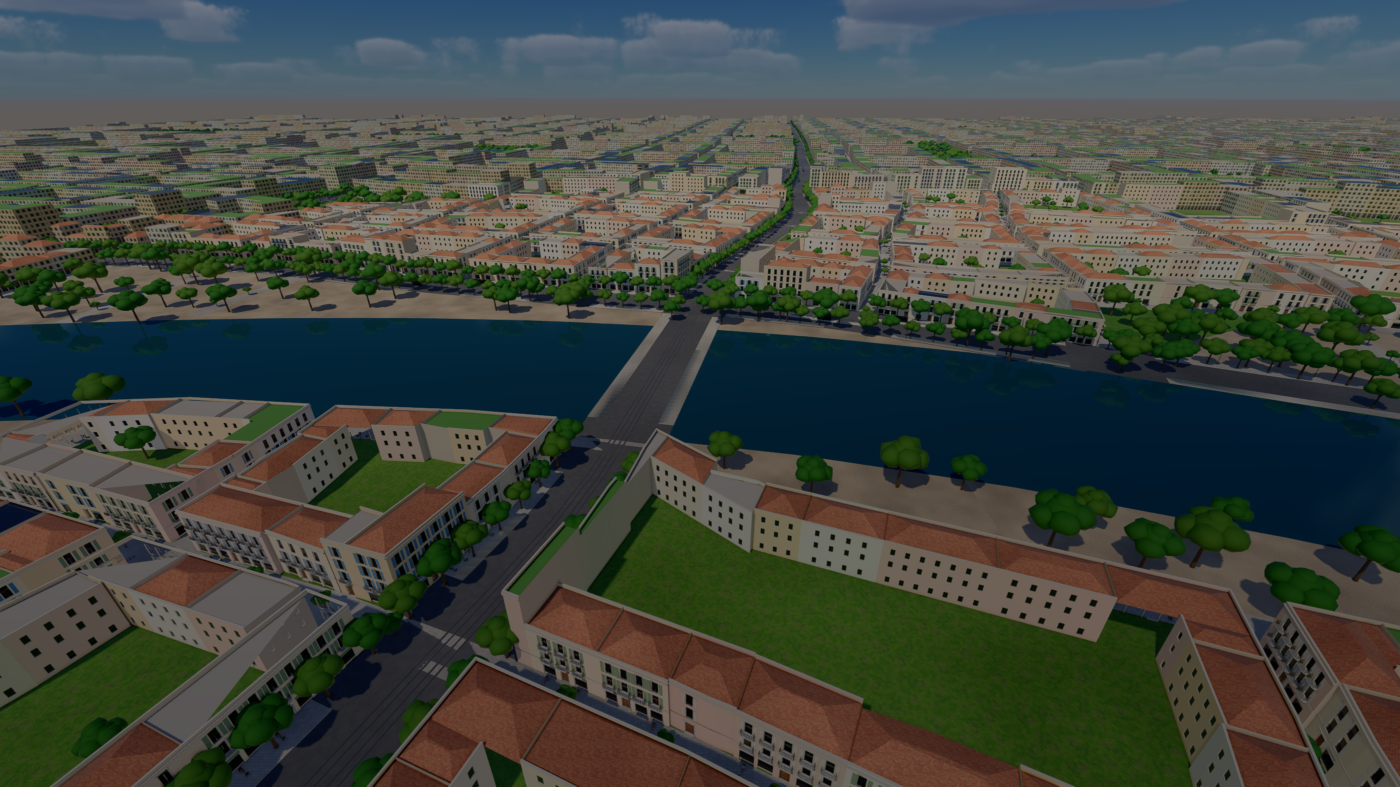
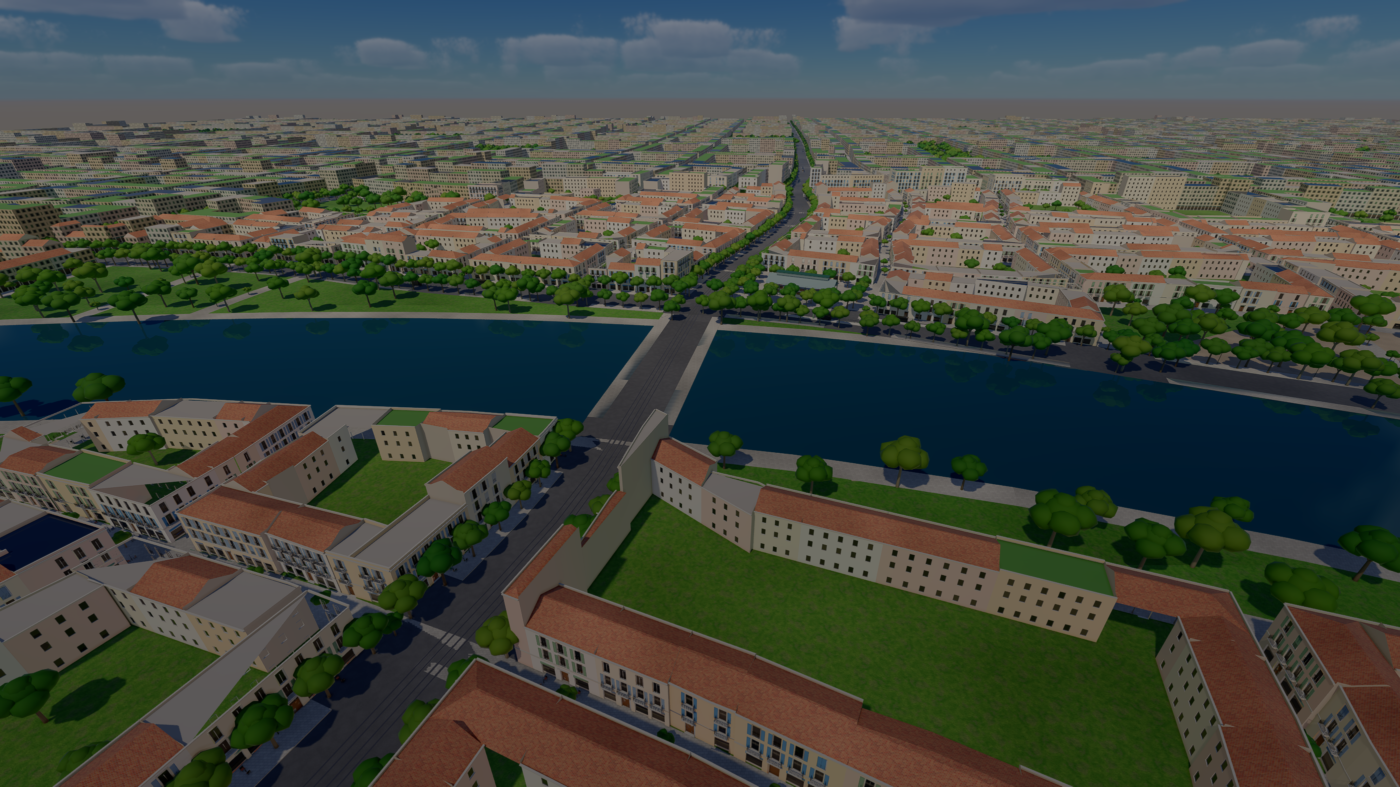
City plans: rows of tiled roofs share a ridge, gables on the party walls (#247)
A tiled roof now slopes from its street and court walls only. A wall onto a
neighbour (facades::edge_kinds, split out of faces), across the main front and
at most 18 m long, carries a gable, so the houses of a row share one ridge along
the street and a taller house shows its gable above its neighbour's roof. A
free-standing building is still hipped. A roof stops rising after an 8 m run
(4.4 m), its top then a terrace. city-map --faces-at draws the faces anywhere.

Gate passed (540 tests).

diff --git a/demos/city-plan/src/lib.rs b/demos/city-plan/src/lib.rs
@@ -315,16 +315,18 @@ impl PlanScenario {
             }
         }
         let trams: Vec<TramRun> = plan.tram_lines.iter().filter_map(TramRun::new).collect();
+        // What each wall looks onto: the kit's faces and where the roofs end in gables.
+        let edges = facades::edge_kinds(plan, masses);
         let mut near = Vec::new();
         for (i, m) in masses.iter().enumerate() {
             match detail {
                 Some(d) if geom::centroid(&m.footprint).distance(d.centre) < d.radius => {
                     near.push(i);
                 }
-                _ => mass(&mut tiles, m),
+                _ => mass(&mut tiles, m, &edges[i]),
             }
         }
-        let kit = detail.map(|d| kit(&mut tiles, plan, masses, &near, d));
+        let kit = detail.map(|d| kit(&mut tiles, masses, &edges, &near, d));
         let triangles = tiles
             .tiles
             .iter()
@@ -846,11 +848,17 @@ fn tint_of(lot: u32) -> u8 {
 
 /// The masses `near` built from `d`'s grammar and kit: each face derived, the walls, bands and
 /// cornices merged into the tiles, the openings instanced; and their roofs.
-fn kit(tiles: &mut Tiles, plan: &CityPlan, masses: &[Mass], near: &[usize], d: &Detail) -> Kit {
+fn kit(
+    tiles: &mut Tiles,
+    masses: &[Mass],
+    edges: &[Vec<Option<FaceKind>>],
+    near: &[usize],
+    d: &Detail,
+) -> Kit {
     let start = std::time::Instant::now();
     let size = tiles.size;
     let wanted: std::collections::HashSet<u32> = near.iter().map(|&i| i as u32).collect();
-    let faces: Vec<facades::Face> = facades::faces(plan, masses)
+    let faces: Vec<facades::Face> = facades::faces_of(masses, edges)
         .into_iter()
         .filter(|f| wanted.contains(&f.mass))
         .collect();
@@ -965,7 +973,7 @@ fn kit(tiles: &mut Tiles, plan: &CityPlan, masses: &[Mass], near: &[usize], d: &
         }
     }
     for &i in near {
-        roof(tiles, &masses[i]);
+        roof(tiles, &masses[i], &edges[i], KIT_PARTY);
     }
     Kit {
         meshes,
@@ -1108,8 +1116,8 @@ fn wall_band(
 }
 
 /// A mass: its walls (a shop band on the ground floor where the street is lively, window bays
-/// above, one of four tints by its lot) and its roof.
-fn mass(tiles: &mut Tiles, m: &Mass) {
+/// above, one of four tints by its lot) and its roof, `edges` saying what each wall looks onto.
+fn mass(tiles: &mut Tiles, m: &Mass, edges: &[Option<FaceKind>]) {
     let size = tiles.size;
     let tile = tiles.at(m.footprint[0]);
     let centre = tile.centre;
@@ -1152,11 +1160,11 @@ fn mass(tiles: &mut Tiles, m: &Mass) {
             );
         }
     }
-    roof(tiles, m);
+    roof(tiles, m, edges, KIT_PLASTER + tint);
 }
 
-/// A mass's roof: green, solar, a terrace, or pitched and tiled.
-fn roof(tiles: &mut Tiles, m: &Mass) {
+/// A mass's roof: green, solar, a terrace, or pitched and tiled, its gables in `gable`.
+fn roof(tiles: &mut Tiles, m: &Mass, edges: &[Option<FaceKind>], gable: u8) {
     let size = tiles.size;
     let tile = tiles.at(m.footprint[0]);
     let centre = tile.centre;
@@ -1165,7 +1173,7 @@ fn roof(tiles: &mut Tiles, m: &Mass) {
         Roof::Solar => ROOF_SOLAR,
         Roof::Terrace => ROOF_TERRACE,
         Roof::Tiled => {
-            if hipped(&mut tile.masses, m, size, centre) {
+            if pitched(&mut tile.masses, m, edges, gable, size, centre) {
                 return;
             }
             ROOF_TERRACE
@@ -1177,47 +1185,136 @@ fn roof(tiles: &mut Tiles, m: &Mass) {
     }
 }
 
-/// A hipped roof over a mass: every edge slopes up at about 29° to the ridge, the footprint moved
-/// in as far as it goes (the straight skeleton's roof for a convex footprint, nearly). False
-/// where the footprint will not take one; it then gets a flat roof.
-fn hipped(mesh: &mut TriMesh, m: &Mass, size: f64, centre: Vec3) -> bool {
+/// The longest wall a gable stands on, metres: about a building's depth. Longer walls slope.
+const GABLE_MAX: f64 = 18.0;
+/// The longest run of a pitched roof from its eaves, metres (a rise of 4.4 m); a roof that
+/// would rise further stops in a terrace.
+const RUN_MAX: f64 = 8.0;
+
+/// Which edges of a footprint slope (1) and which end in a gable (0): a wall onto a neighbour
+/// or within the building, across the main front (its longest street wall, else its longest
+/// court wall) and at most [`GABLE_MAX`] long, carries a gable, so the houses of a row share
+/// one ridge along the street. The rest slope; with no gable the roof is hipped. `None` with
+/// no front.
+fn pitches(fp: &[DVec2], edges: &[Option<FaceKind>]) -> Option<Vec<f64>> {
+    let n = fp.len();
+    let edge = |i: usize| fp[(i + 1) % n] - fp[i];
+    let open = |i: usize| matches!(edges[i], Some(FaceKind::Street | FaceKind::Court));
+    let longest = |kind: FaceKind| {
+        (0..n)
+            .filter(|&i| edges[i] == Some(kind))
+            .max_by(|&a, &b| edge(a).length().total_cmp(&edge(b).length()))
+    };
+    let front = longest(FaceKind::Street).or_else(|| longest(FaceKind::Court))?;
+    let along = edge(front).normalize_or_zero();
+    Some(
+        (0..n)
+            .map(|i| {
+                let across = edge(i).normalize_or_zero().dot(along).abs() < 0.5;
+                let length = edge(i).length();
+                if !open(i) && (0.5..=GABLE_MAX).contains(&length) && across {
+                    0.0
+                } else {
+                    1.0
+                }
+            })
+            .collect(),
+    )
+}
+
+/// The outline `fp` with each edge `i` moved in by `w[i] * d`: a pitched roof's top at the run
+/// `d`. `None` once an edge turns over or two cross (past the ridge).
+fn ridge(fp: &[DVec2], w: &[f64], d: f64) -> Option<Vec<DVec2>> {
+    let n = fp.len();
+    let line = |i: usize| {
+        let t = (fp[(i + 1) % n] - fp[i]).normalize_or_zero();
+        (fp[i] + DVec2::new(-t.y, t.x) * (w[i] * d), t)
+    };
+    let mut out = Vec::with_capacity(n);
+    for i in 0..n {
+        let prev = (i + n - 1) % n;
+        let ((p, t), (q, u)) = (line(prev), line(i));
+        let denom = geom::cross(t, u);
+        if denom.abs() < 1e-9 {
+            // Edges in line meet only where they move alike.
+            if w[i] != w[prev] {
+                return None;
+            }
+            out.push(q);
+            continue;
+        }
+        out.push(p + t * (geom::cross(q - p, u) / denom));
+    }
+    let turned = (0..n).any(|i| (out[(i + 1) % n] - out[i]).dot(line(i).1) <= 1e-6);
+    let crossing = (0..n).any(|i| {
+        ((i + 2)..n).any(|j| {
+            (j + 1) % n != i
+                && geom::segment_intersection(out[i], out[(i + 1) % n], out[j], out[(j + 1) % n])
+                    .is_some()
+        })
+    });
+    (!turned && !crossing).then_some(out)
+}
+
+/// A pitched roof over a mass at about 29°: the sloping edges ([`pitches`]) moved in as far as
+/// they go to the ridge (the straight skeleton's roof for a convex footprint, nearly) or
+/// [`RUN_MAX`], the gable ends standing up from their walls in `gable`. False where the
+/// footprint will not take one; it then gets a flat roof.
+fn pitched(
+    mesh: &mut TriMesh,
+    m: &Mass,
+    edges: &[Option<FaceKind>],
+    gable: u8,
+    size: f64,
+    centre: Vec3,
+) -> bool {
     let fp = &m.footprint;
     let n = fp.len();
-    let fits = |d: f64| geom::inset(fp, d).filter(|p| p.len() == n);
+    let Some(w) = pitches(fp, edges) else {
+        return false;
+    };
+    let fits = |d: f64| ridge(fp, &w, d);
     if fits(0.5).is_none() {
         return false;
     }
-    let (mut lo, mut hi) = (0.5, 30.0);
-    for _ in 0..14 {
-        let mid = (lo + hi) * 0.5;
-        if fits(mid).is_some() {
-            lo = mid;
-        } else {
-            hi = mid;
+    // The run to the ridge, or the longest, the top then a terrace.
+    let (d, top) = if fits(RUN_MAX).is_some() {
+        (RUN_MAX, ROOF_TERRACE)
+    } else {
+        let (mut lo, mut hi) = (0.5, RUN_MAX);
+        for _ in 0..12 {
+            let mid = (lo + hi) * 0.5;
+            if fits(mid).is_some() {
+                lo = mid;
+            } else {
+                hi = mid;
+            }
         }
-    }
-    let d = lo * 0.97;
+        (lo * 0.97, ROOF_TILE)
+    };
     let Some(ridge) = fits(d) else {
         return false;
     };
     let rise = d * 0.55;
     let at = |p: DVec2, h: f64| world(size, p, h) - centre;
-    let face = |mesh: &mut TriMesh, p: [Vec3; 3]| {
-        let mut normal = (p[1] - p[0]).cross(p[2] - p[0]).normalize_or_zero();
-        if normal.y < 0.0 {
-            normal = -normal;
-        }
-        triangle_uv(mesh, p, [[0.0; 2]; 3], normal, ROOF_TILE);
-    };
     for i in 0..n {
         let j = (i + 1) % n;
         let (a, b) = (at(fp[i], m.height), at(fp[j], m.height));
         let (c, e) = (at(ridge[j], m.height + rise), at(ridge[i], m.height + rise));
-        face(mesh, [a, b, c]);
-        face(mesh, [a, c, e]);
+        let (normal, section) = if w[i] == 0.0 {
+            // A gable: the wall carried up, facing out.
+            let t = (fp[j] - fp[i]).normalize_or_zero();
+            (Vec3::new(t.y as f32, 0.0, -t.x as f32), gable)
+        } else {
+            let normal = (b - a).cross(c - a).normalize_or_zero();
+            (normal * normal.y.signum(), ROOF_TILE)
+        };
+        triangle_uv(mesh, [a, b, c], [[0.0; 2]; 3], normal, section);
+        triangle_uv(mesh, [a, c, e], [[0.0; 2]; 3], normal, section);
     }
     for t in geom::triangulate(&ridge) {
-        face(mesh, t.map(|i| at(ridge[i], m.height + rise)));
+        let p = t.map(|i| at(ridge[i], m.height + rise));
+        triangle_uv(mesh, p, [[0.0; 2]; 3], Vec3::Y, top);
     }
     true
 }

diff --git a/crates/forge-procgen/src/city/facades.rs b/crates/forge-procgen/src/city/facades.rs
@@ -64,6 +64,13 @@ impl Face {
 
 /// The faces of every mass, in mass order.
 pub fn faces(plan: &CityPlan, masses: &[Mass]) -> Vec<Face> {
+    faces_of(masses, &edge_kinds(plan, masses))
+}
+
+/// What each edge of each mass's footprint looks onto (edge `i` from vertex `i` to `i + 1`):
+/// `None` for a wall inside its building (onto another mass of its lot) or a sliver under half
+/// a metre.
+pub fn edge_kinds(plan: &CityPlan, masses: &[Mass]) -> Vec<Vec<Option<FaceKind>>> {
     let streets = street_grid(&plan.roads, plan.size);
     // Each lot's masses, to tell walls inside a building from walls between lots.
     let mut by_lot: std::collections::HashMap<u32, Vec<u32>> = std::collections::HashMap::new();
@@ -74,12 +81,11 @@ pub fn faces(plan: &CityPlan, masses: &[Mass]) -> Vec<Face> {
     for (i, lot) in plan.lots.iter().enumerate() {
         lots_of[lot.block as usize].push(i as u32);
     }
-    let mut out = Vec::new();
+    let mut out = Vec::with_capacity(masses.len());
     for (index, m) in masses.iter().enumerate() {
         let lot = &plan.lots[m.lot as usize];
         let block = &plan.blocks[lot.block as usize];
         let n = m.footprint.len();
-        let first = out.len();
         let mut kinds = Vec::with_capacity(n);
         for i in 0..n {
             let (a, b) = (m.footprint[i], m.footprint[(i + 1) % n]);
@@ -129,6 +135,17 @@ pub fn faces(plan: &CityPlan, masses: &[Mass]) -> Vec<Face> {
             };
             kinds.push(kind);
         }
+        out.push(kinds);
+    }
+    out
+}
+
+/// The faces of every mass from its edges' kinds ([`edge_kinds`]), in mass order.
+pub fn faces_of(masses: &[Mass], kinds: &[Vec<Option<FaceKind>>]) -> Vec<Face> {
+    let mut out = Vec::new();
+    for (index, (m, kinds)) in masses.iter().zip(kinds).enumerate() {
+        let n = m.footprint.len();
+        let first = out.len();
         for i in 0..n {
             let Some(kind) = kinds[i] else { continue };
             let (a, b) = (m.footprint[i], m.footprint[(i + 1) % n]);

diff --git a/tools/city-map/src/main.rs b/tools/city-map/src/main.rs
@@ -28,6 +28,15 @@ struct Args {
     /// Where to write `plan.png`.
     #[arg(long, default_value = "captures/city")]
     out: PathBuf,
+    /// The faces map's middle, `x,y` metres on the plan (the plan's centre otherwise).
+    #[arg(long, value_parser = parse_point)]
+    faces_at: Option<DVec2>,
+}
+
+fn parse_point(s: &str) -> Result<DVec2, String> {
+    let (x, y) = s.split_once(',').ok_or("expected x,y")?;
+    let f = |v: &str| v.trim().parse::<f64>().map_err(|e| e.to_string());
+    Ok(DVec2::new(f(x)?, f(y)?))
 }
 
 fn main() -> Result<()> {
@@ -97,7 +106,10 @@ fn main() -> Result<()> {
         &plan,
         &faces,
         &args.out.join("faces-centre.png"),
-        (params.centre - DVec2::splat(200.0), 400.0),
+        (
+            args.faces_at.unwrap_or(params.centre) - DVec2::splat(200.0),
+            400.0,
+        ),
         0.2,
     )
     .context("writing the faces")?;

diff --git a/docs/demos/city-plan.md b/docs/demos/city-plan.md
@@ -334,14 +334,19 @@ the water.*
 
 ![The old town's roofs](images/city-plan-roofs.png)
 
-*The old town on both banks from 90 m up: terracotta roofs hipped from every side; beyond it,
-the green, solar and terrace roofs.* A district's share of tiled roofs is its kind's unless its
-style bible sets it (`DistrictSpec::tiled_share`): 85 % in an old town, 90 % in a village, none
-elsewhere. The bible's green-roof check counts the flat roofs only. Each roof rises at about 29°
-from every edge to a ridge, the footprint moved in as far as it goes. That is the straight
-skeleton's roof for a convex footprint, near enough. The tiles are the brick courses tinted
-terracotta. Each lot hips its own roof, so a row's roofs read stepped; continuous ridges along
-a row come with the straight skeleton (#247).
+*The old town on both banks from 90 m up: the terracotta roofs of a row share one ridge along
+the street, stepping where the heights change; beyond it, the green, solar and terrace roofs.*
+A district's share of tiled roofs is its kind's unless its style bible sets it
+(`DistrictSpec::tiled_share`): 85 % in an old town, 90 % in a village, none elsewhere. The
+bible's green-roof check counts the flat roofs only.
+
+Each roof rises at about 29° from its street and court walls to a ridge, those edges moved in
+as far as they go (the straight skeleton's roof for a convex footprint, near enough). A wall
+onto a neighbour (`facades::edge_kinds`), across the main front and at most 18 m long, carries
+a gable instead. So the houses of a row share one ridge, and a house taller than its neighbour
+shows its gable above theirs. A free-standing building is hipped on every side. A roof stops
+rising after an 8 m run (4.4 m up), its top then a terrace. The tiles are the brick courses
+tinted terracotta.
 
 ## The people on foot (D-059's step 6, a proof of concept)
 
